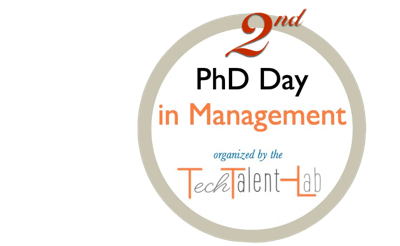
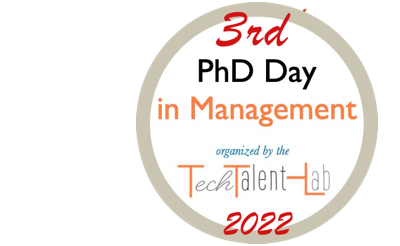
new info

diff --git a/themes/hugo-universal-theme/layouts/partials/project.html b/themes/hugo-universal-theme/layouts/partials/project.html
@@ -4,7 +4,7 @@
         <div class="row">
             <div class="col-md-12">
                 <div class="heading text-center">
-                    <h2>Disentangling Bibliometrics</h2>
+                    <h2>Collecting Data in Research Projects</h2>
                 </div>
 
                <p class="lead">
@@ -12,7 +12,7 @@
                 </p> 
 
                  <p class="lead"> 
-                  This year's second edition will focus on the interdisciplinary research field of Bibliometrics, a standard tool of science policy and research management in the last decades. Some of the questions we will discuss with experts in the field are: What is meant by bibliometrics? Why should we care about it? What about its application in Management? Which software could one use to do bibliometrics analysis? What should you have in mind to publish a bibliometric study? 
+                  This year's third edition will focus on the interdisciplinary research field of Bibliometrics, a standard tool of science policy and research management in the last decades. Some of the questions we will discuss with experts in the field are: What is meant by bibliometrics? Why should we care about it? What about its application in Management? Which software could one use to do bibliometrics analysis? What should you have in mind to publish a bibliometric study? 
                 </p>
 
                  <p class="lead"> 
@@ -43,7 +43,7 @@
                 </p> 
 
                 <p class="lead">               
-                  Apart from the direct feedback, all presenters will receive a written report (on July 30) regarding their presentation. It will be grounded on the four experts' opinions and the feedback from the attendants.
+                  Apart from the direct feedback, all presenters will receive a written report (on November 30) regarding their presentation. It will be grounded on the experts' opinions and the feedback from the attendants.
                 </p> 
                 
                   <p class="lead">               
@@ -67,7 +67,7 @@
                 </div>
 
                <p class="lead">
-                  <strong>20 June 2021</strong> - The deadline for free registration for those people who want to present their work 
+                  <strong>15 October 2022</strong> - The deadline for free registration for those people who want to present their work. 
                 </p> 
                  
                 <p class="lead">
@@ -75,16 +75,16 @@
                 </p>  
                   
                 <p class="lead">               
-                  <strong>23 June 2021</strong> - Assignment of the slot for your presentation
+                  <strong>1 November 2022</strong> - Assignment of the slot for your presentation
 
                 </p> 
 
                 <p class="lead">               
-                  <strong>30 June 2021</strong> - The deadline for sending the document you are going to use in your presentation
+                  <strong>7 November 2022</strong> - The deadline for sending the document you are going to use in your presentation
                 </p> 
                 
                  <p class="lead"> 
-                  <strong>30 July 2021</strong> - Reception of the overall feedback of your research presentation 
+                  <strong>30 November 2022</strong> - Reception of the overall feedback of your research presentation 
                 </p>
                 
                 

diff --git a/content/participants.md b/content/participants.md
@@ -7,27 +7,6 @@ keywords:
 - what if
 title: Short View of the Participants
 ---
-### Dr. Joaquín Alegre
-
-![](/img/people/joaquin.png) 
-
-Joaquin Alegre is Professor of Organisation and Management at University of Valencia. He has been a lecturer at University Jaume I and a visiting researcher at INSEAD, BI Norwegian School of Management and University of Sussex. His research and his teaching focus on organisational learning and decision-making for innovation. He has published his research findings at top academic journals such as Research Policy, Technovation, Journal of Product Innovation Management or Industrial Marketing Management. At present, he is Associate Editor for International Journal of Management Reviews and he is leading a research project funded by the Ministry of Science, Innovation and Universities that connects innovation and organisational learning with the firm’s top management team.
-
-
-### Dr. Sasa Batistic
-
-![](/img/people/sasa.png) 
-
-Saša Batistič, Ph.D., is an Assistant Professor at the School of Social and Behavioral Sciences, Tilburg University, Department of Human Resource Studies. His current research interests include relational human resource management, social networks, work relationships, socialization of organizational newcomers, employability, and advanced research methods such as bibliometrics. His work has been published in distinguished academic journals such as The Leadership Quarterly, Human Resource Management Review, British Journal of Management, International Journal of Project Management, and Journal of Knowledge Management, among others. He is on the editorial board of the Journal of Organizational Behavior.
-
-
-### Dr. Matej Černe
-
-![](/img/people/matej.png) 
-
-Matej Černe, Ph.D., is Associate Professor of Management at the School of Economics and Business, University of Ljubljana, Slovenia. His research interests include non-technological innovations, creativity, human resource management, leadership, bibliometrics, and digital work. His research was published in top management journals, including the Academy of Management Journal. He serves as editor-in-chief of the Dynamics Relationships Management Journal, associate editor of Economic and Business Review, and an editorial board member at The Leadership Quarterly, Human Resource Management Review, Human Resource Management Journal, Frontiers of Psychology and Frontiers of Communication. He is currently managing a virtual platform for research dissemination #HumanizingDigitalWork.
-
-
 ### Dr. Vicenc Fernandez
 
 ![](/img/people/vicenc.png) 
@@ -47,32 +26,11 @@ Eva Gallardo-Gallardo, Ph.D., is Associate Professor at the Universitat Politèc
 
 Esteban Lafuente, Ph.D., is Professor in the Department of Management at the Universitat Politècnica de Catalunya·BarcelonaTech (UPC). He is Editor of Small Business Economics journal. He also served as Senior Researcher in the Catalan entrepreneurship observatory, Global Entrepreneurship Monitor (GEM-Catalunya) between 2009 and 2013. During this period he co-organized, with Prof. Yancy Vaillant (TBS), the Global Entrepreneurship Monitor Research Conference on Entrepreneurship and Economic Development in Barcelona (June 2013). His research work is mostly devoted to the economic analysis of organizations, with special emphasis on models of managerial economics and topics in applied econometrics. Additionally, he is interested in the problems and possibilities of entrepreneurial activities and business creation, and their economic benefits from a territorial perspective. Esteban's research has been published in a variety of journals, including among others: International Journal of Production Economics, Applied Psychology: An International Review, Small Business Economics, Regional Studies, Safety Science, Journal of Productivity Analysis, Journal of Technology Transfer, British Journal of Management, Journal of Business Research, Technovation, and Entrepreneurship & Regional Development. 
 
-### Dr. Juan A. Marin-Garcia
-
-![](/img/people/juan.png) 
-
-Juan A. Marin-Garcia, Ph.D., is an Associate Professor, member of the Departamento de Organización de Empresas at the Universitat Politècnica de València (Spain). He has been Lecturer in Management, Teamwork and Human Resources Management since 1994, in the Degrees of Industrial Engineering and Business Management. Moreover, he is also Lecturer and Coordinator in Master courses and PhD programs. He is involved in the training of university lecturers and staff. Concerning these areas, he has also worked as a consultant for some companies in Spain and El Salvador (Central America). He is founder member of the Research Groups ROGLE and i-GRHUP where he develops research tasks in different projects. He is also founder member and designer and developer of pedagogical activities at IEMA (Innovation Group for Assessment and Active Methodologies). Juan's main research areas are Participative Management, Continuous Improvement, Lean Manufacturing Systems, TQM, TPM, Performance Evaluation and Active Learning in Higher Education. He is Chief Editor of two academic journals: Working Papers on Operations Management, and Journal of Industrial Engineering and Management. He is also Associate Editor in REDU-Revista de Docencia Universitaria.
-
-
-### Dr. Imma Ribas-Vila
-
-![](/img/people/imma.png) 
-
-Imma Ribas Vila, Ph.D., is Associate Professor at the Department of Management at the Universitat Politècnica de Catalunya·BarcelonaTech (UPC) and member of the TechTalent-Lab. She received the Industrial Engineering Degree in 1996 from the Universitat Politècnica de Catalunya and the Ph.D. degree in 2007 from the Universitat Politècnica de València (UPV). She is the coordinator of the Master's Degree in Supply Chain, Transport and Mobility Management at the UPC. Her research interests are on Urban Mobility services, Urban Logistics, Scheduling and Supply Chain Management and Design, in which she has published several papers, participated in research projects and conferences. Her work has received around 798 citations (according to Scopus). She is Associate Editor of the international journals Expert Systems with Applications and Urban Mobility.
-
-
 ### Dr. Jose M Sallan
 
 ![](/img/people/sallan.png) 
 
 Jose M Sallan, Ph.D., is Associate Professor at the Department of Management of the Universitat Politècnica de Catalunya·BarcelonaTech (UPC). He has a PhD and a degree in Industrial Engineering. His research experience and interests cover a broad range of subjects related with industrial organization: organizational and consumer behavior, air transport management and analysis of transportation networks. He is member of the Advisory Board of Management Decision, and editor of the Journal of Airport Management. He is coordinator of the inter-university doctoral programme in Business and Management (UPC-UOC-UPCT-UPM).
-
-
-### Dr. Mónica Santana
-
-![](/img/people/monica.png) 
-
-Mónica Santana is an assistant professor (Pablo de Olavide University). She teaches mainly in subjects related to Strategic Human Resource Management (SHRM) and Strategic Management in degrees, double degrees, Masters and at the International University Center of the Pablo de Olavide University. Her research focuses on the SHRM in crisis times, the Future of Work or the Sustainable Human Resource Management fields. She has published her research in relevant journals such as European Management Journal, Business Research Quarterly, Corporate Social Responsibility and Environmental Management, Economic & Industrial Democracy or European Management Review. In addition, she is used to work with the SciMAT bibliometric software.
 
 ### Dr. Jordi Trullen
 

diff --git a/content/program.md b/content/program.md
@@ -5,37 +5,36 @@ keywords:
 - phd
 - questions
 - what if
-title: Full Program - July 7th, 2021
+title: Full Program - November 16th, 2022
 ---
 
 **9:00 a.m.**  *Welcome & Introduction*, by Dr. Eva Gallardo-Gallardo (*Universitat Politècnica de Catalunya*)
 
-**9:30 a.m.**  Keynote #1: *How to conduct a bibliometric review study - An overview and key recommendations*, by Dr. Sasa Batistic (*Tillburg University*)
+**9:30 a.m.**  Keynote #1: *Designing an Excellent Survey in a Research Project*, by Dr. XXXX XXXXX (*XXXXX University*)
 
-**10:40 a.m.** Keynote #2: *Science Mapping Analysis: SciMAT*, by Dr. Monica Santana (*Universidad Pablo Olavide*)
+**10:40 a.m.** Keynote #2: *Designing and Carry out Interviews in a Research Project*, by Dr. Monica Santana (*Universidad Pablo Olavide*)
 
-**11:50 a.m.** Round Table: *Publishing bibliometric papers in Top Journals*  
+**11:50 a.m.** Round Table: *Collecting Data from Databses and Social Media Networks* 
 * Dr. Eva Gallardo-Gallardo (*moderator*)
-* Dr. Joaquin Alegre (*Universitat de València*), Associate Editor at the *International Journal of Management Reviews*
-* Dr. Matej Černe (*University of Ljubljana*), Editor-in-Chief at *Dynamic Relationships Management Journal*; Associate Editor at *Economic and Business Review*.
-* Dr. Jordi Trullen (*ESADE-Ramon Llull University*), Editorial Board Member at *Business Research Quarterly*
-
+* Dr. XXXX XXXXX (*XXXX University*)
+* Dr. XXXX XXXXX (*XXXX University*)
+* Dr. XXXX XXXXX (*XXXX University*)
 
 **1:00 p.m** Lunch
 
 **2:30 p.m.** Presenting your research. Session I
-* Dr. Estaban Lafuente, *Universitat Politècnica de Catalunya*
-* Dr. Juan A. Marín, *Universidad Politécnica de Valencia*
-* Dr. Imma Ribas-Vila, *Universitat Politècnica de Catalunya*
+* Dr. Jasmina Berbegal, *Universitat Politècnica de Catalunya*
+* Dr. Esteban Lafuente, *Universitat Politècnica de Catalunya*
 * Dr. Jose M Sallan, *Universitat Politècnica de Catalunya*
+* Dr. Jordi Trullen, *ESADE Business School - URL*
 
-**4:00 p.m.** Keynote #3: *Software for Bibliometrics*, by Dr. Vicenc Fernandez (*Universitat Politècnica de Catalunya*)
+**4:00 p.m.** Keynote #3: *Software for collecting data*, by Dr. Vicenc Fernandez (*Universitat Politècnica de Catalunya*)
 
 **4:30 p.m.** Presenting your research. Session II
-* Dr. Estaban Lafuente, *Universitat Politècnica de Catalunya*
-* Dr. Juan A. Marín, *Universidad Politécnica de Valencia*
-* Dr. Imma Ribas-Vila, *Universitat Politècnica de Catalunya*
+* Dr. Jasmina Berbegal, *Universitat Politècnica de Catalunya*
+* Dr. Esteban Lafuente, *Universitat Politècnica de Catalunya*
 * Dr. Jose M Sallan, *Universitat Politècnica de Catalunya*
+* Dr. Jordi Trullen, *ESADE Business School - URL*
 
 **5:30 p.m.** Closing, by Dr. Eva Gallardo-Gallardo (*Universitat Politècnica de Catalunya*)
 
